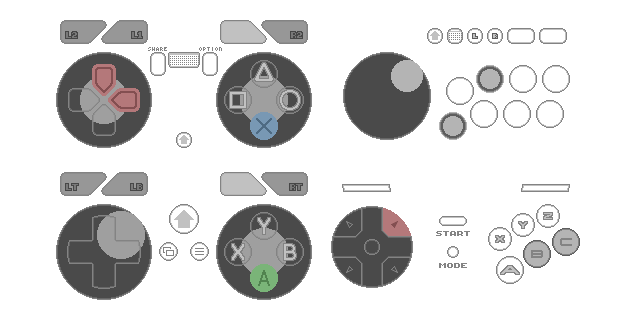
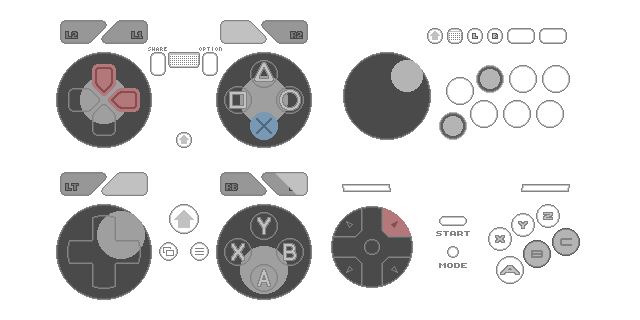
change detail of open graph image

Changed region(s): [[0.375, 0.7188, 0.4688, 0.9375], [0.3438, 0.5312, 0.5, 0.625], [0.1562, 0.5312, 0.25, 0.625]]

diff --git a/index.html b/index.html
@@ -21,7 +21,7 @@
   <meta property="og:image:type" content="image/png">
   <meta property="og:image:width"  content="1280">
   <meta property="og:image:height" content="640">
-  <meta property="og:image:alt" content="An overlay of four gamepads. They resemble DInput, 8-button Joystick, XInput, 6-button gamepad. D-pad or stick is pushed up and right, and two buttons of following are pressed: first face button and R1 for DInput and XInput, first and last face buttons for Joystick, B and C for 6-button gamepad.">
+  <meta property="og:image:alt" content="An overlay of four gamepads. They resemble DInput, 8-button Joystick, XInput, and 6-button gamepad. Some buttons in all gamepads are being pressed. For DInput they are D-pad at upright, X, and R1. For Joystick they are D-pad at upright, first and last face buttons. For XInput they are left stick at upright, right stick at two-third down, LB, and RT at two-third. For 6-button gamepad they're D-pad at upright, B, and C.">
   <meta property="og:type" content="website">
   <meta name="twitter:card" content="summary_large_image">
   
